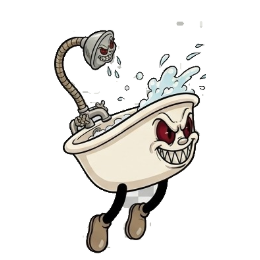
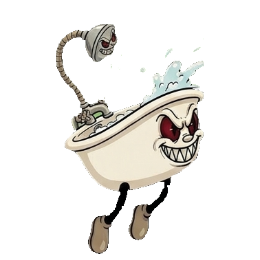
La banera, recortada sobre verde y sin restos de damero
Daniel paso la hoja del bicho sobre fondo verde liso, porque con el damero gris
quedaban cuadros pegados entre las piernas.

El recorte ahora mira las cuatro esquinas del original y decide solo con que
clase de fondo trabaja: si coinciden entre si y no son grises, es un color liso.
En ese caso quita el fondo por TONO y no por color exacto, para que la sombra
que el dibujante pone bajo el bicho, que es ese mismo verde mas oscuro, se vaya
con el fondo. Lo que no tiene color (la porcelana, el metal, el contorno negro)
se queda siempre.

Las hojas antiguas siguen recortandose contra el damero, sin tocar nada.

diff --git a/CLAUDE.md b/CLAUDE.md
@@ -516,6 +516,12 @@ baja.
   eso, con un checkpoint al alcance de una banera, el nino reaparecia justo para
   recibir el siguiente chorro. En un juego sin vidas eso es un callejon sin
   salida, no una dificultad.
+- **2026-09-23** — La hoja de la banera pasa a venir sobre **verde liso** en vez
+  del damero gris: entre las piernas del bicho quedaban restos de cuadros. El
+  recorte detecta solo que clase de fondo tiene cada original mirando las cuatro
+  esquinas, y con fondo liso lo quita **por tono**, no por color exacto, para
+  que la sombra del suelo (el mismo verde mas oscuro) se vaya tambien. Lo que no
+  tiene color (porcelana, metal, contorno) nunca se toca.
 - **2026-09-23** — Los huecos del suelo pasan de tres casillas a **dos**, en los
   cinco tableros. `validar-niveles.mjs` comparaba el hueco con el alcance del
   salto (96 < 131) sin contar que el nino ocupa 30 px: ahora lo cuenta y da
